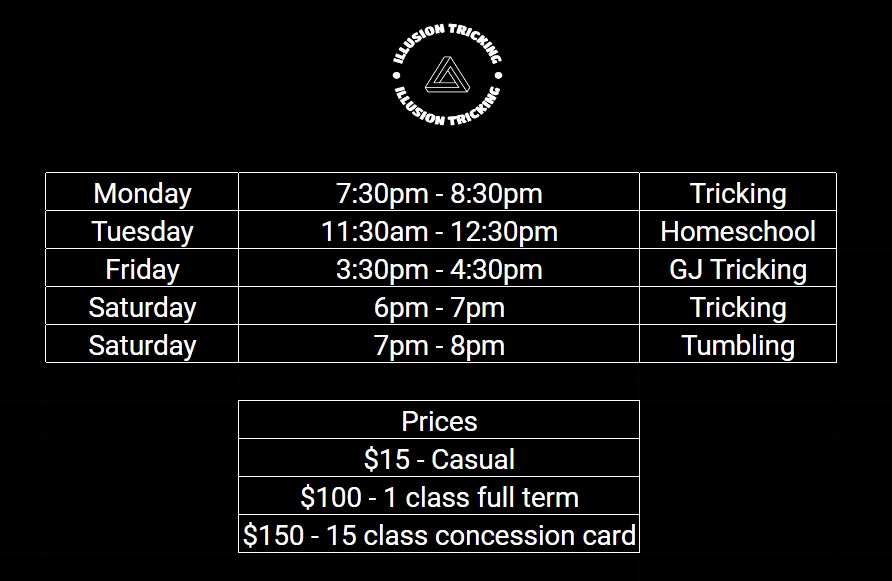
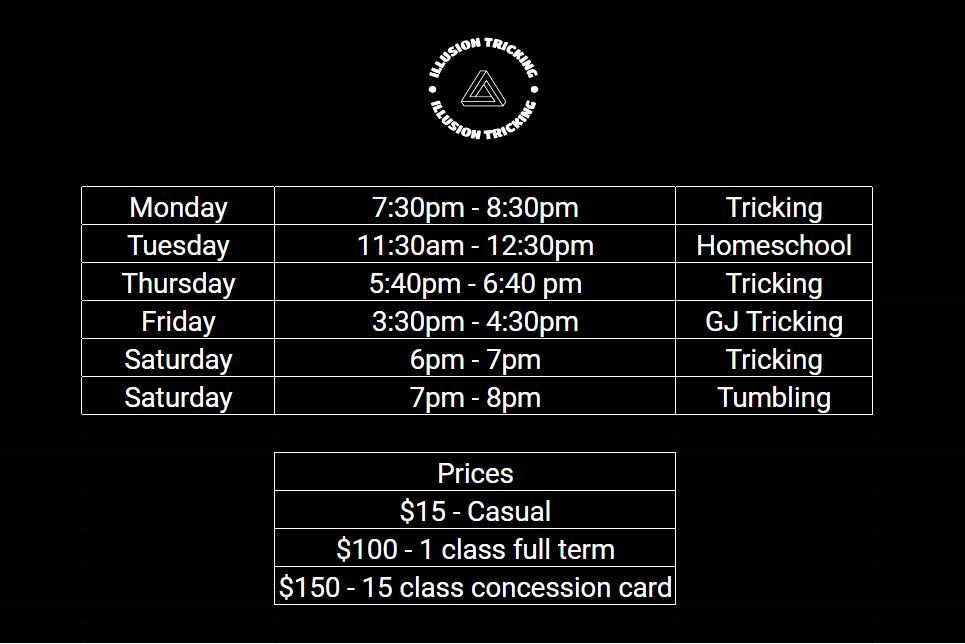
2024 term 2 update

diff --git a/pages/classes.jsx b/pages/classes.jsx
@@ -8,9 +8,9 @@ const classes = () => {
         <div>
             <Hero 
             heading='Classes' 
-            message='Term 1 tricking will be starting back at the gymnastics club on the 12th of Feb and running to 13th April..' 
-            message1='All the classes have remained the same and we are adding an extra at Gym Junkie on Fridays. The timetable is as follows'
-            message2='Go to contact to enroll, timetable and prices are below'
+            message='For term 2 we will be adding a class on Thursdays. Friday class is run at Gym Junkie.' 
+            message1='!! There will be no classes running on 4th/31st May or 27th June - 2nd May !!'
+            message2='Go to contact to enroll. Timetable and prices are below.'
             frame='https://www.google.com/maps/embed?pb=!1m14!1m8!1m3!1d12113.28797635662!2d175.2732981!3d-40.6227804!3m2!1i1024!2i768!4f13.1!3m3!1m2!1s0x6d40f3c0a249b621%3A0x26a007b65b89dbfd!2sIllusion%20Tricking!5e0!3m2!1sen!2snz!4v1706745810973!5m2!1sen!2snz" width="600" height="450" style="border:0;" allowfullscreen="" loading="lazy" referrerpolicy="no-referrer-when-downgrade' 
             />
             <Class />

diff --git a/pages/index.js b/pages/index.js
@@ -20,7 +20,7 @@ export default function Home() {
       message='Sports group based in Levin. We do a mixture of tricking, tumbling, and parkour.'
       message1='Check out our January holiday programme on the classes page'
       message2='Classes run by Aaron Van Eijck and Allegra Hunt.'
-      frame='https://www.youtube.com/embed/GYfRuRT7fDY'
+      frame='https://youtube.com/embed/6SEX_VyPWcA?si=6sqOIW-f8qMhISoW'
       />
       <Slider slides={SliderData} />
       <Instagram />
